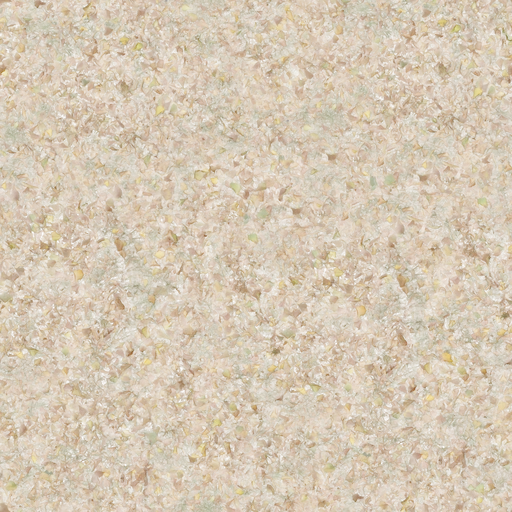
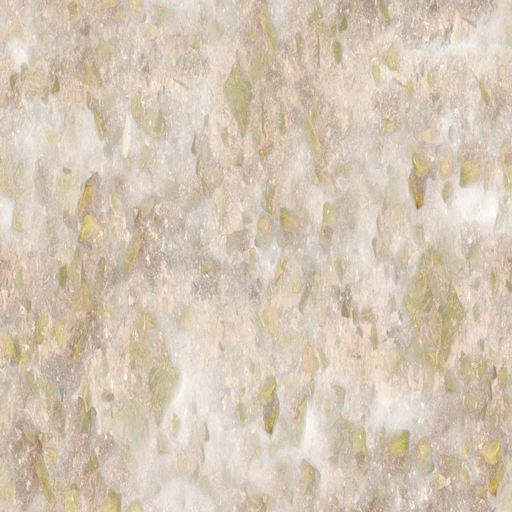
Avance: la hierba densa no crece sobre la tierra ni la hojarasca; el detalle del suelo llega más lejos; hojarasca con hojas (Ground078) y tierra más gris
Claude-Session: https://claude.ai/code/session_01JMEPuoU9iVWUB8s41oz7Gi

diff --git a/src/mapa/suelo.js b/src/mapa/suelo.js
@@ -18,7 +18,7 @@ import { materialTex } from '../mundo/estilos.js';
 const SIN_HUECO = new THREE.Vector4(1e9, 1e9, -1e9, -1e9);
 export const CAPAS_SUELO = ['hierba', 'tierra', 'roca', 'hojarasca'];
 // metros que ocupa cada textura en el suelo (una vez entera)
-export const ESCALA_SUELO = { hierba: 2.6, tierra: 2.2, roca: 3.5, hojarasca: 1.8 };
+export const ESCALA_SUELO = { hierba: 2.6, tierra: 2.2, roca: 3.5, hojarasca: 2.0 };
 
 // lo que comparten los materiales de cerca: las texturas y cuánto relieve
 const capas = {
@@ -78,14 +78,14 @@ vec4 bCapas; vec3 pwCapas;
     // (cada una con su color en distinta medida: la tierra y la roca casi solo claros y oscuros; la hojarasca, con el suyo)
     vec3 L = vec3(0.299, 0.587, 0.114);
     vec3 dH = cH.rgb / uMedias[0], dT = cT.rgb / uMedias[1], dR = cR.rgb / uMedias[2], dF = cF.rgb / uMedias[3];
-    dH = mix(vec3(dot(dH, L)), dH, 0.5); dT = mix(vec3(dot(dT, L)), dT, 0.2); dR = mix(vec3(dot(dR, L)), dR, 0.3); dF = mix(vec3(dot(dF, L)), dF, 0.7);
+    dH = mix(vec3(dot(dH, L)), dH, 0.5); dT = mix(vec3(dot(dT, L)), dT, 0.1); dR = mix(vec3(dot(dR, L)), dR, 0.3); dF = mix(vec3(dot(dF, L)), dF, 0.85);
     vec3 d = dH * b.x + dT * b.y + dR * b.z + dF * b.w;
     // a lo lejos, el detalle se va (la misma textura muchas veces seguidas hace rayas y aguas); y 0,6: lo que oscurecía
     // la textura «suelo» de antes, con la que están hechos los colores de los vértices
     // y también donde se ve muy de canto: cuando cada píxel de la pantalla abarca varios de la textura, su detalle hace
     // bandas (el aliasing de mirar una textura en ángulo rasante); ahí se va también
     float tpp = max(length(dFdx(p)), length(dFdy(p))) / uEscala.y * 512.0;
-    float lejosD = max(smoothstep(14.0, 55.0, length(vViewPosition)), smoothstep(9.0, 26.0, tpp));
+    float lejosD = max(smoothstep(35.0, 130.0, length(vViewPosition)), smoothstep(9.0, 26.0, tpp));
     // (lo de lejos se queda con la variación grande de la hierba, que no hace rayas)
     vec3 grande = mix(vec3(1.0), cH2.rgb / uMedias[0], 0.45 * b.x);
     diffuseColor.rgb *= 0.6 * mix(clamp(d, 0.0, 2.2), grande, lejosD);

diff --git a/src/mundo/hierba_densa.js b/src/mundo/hierba_densa.js
@@ -108,6 +108,15 @@ export function crearHierbaDensa({ mundoJ, raiz }) {
     return _c;
   }
 
+  // el peso de la hierba del suelo en un punto (0–1), entre los cuatro puntos de su rejilla; null si el trozo no lo trae
+  function pesoHierbaEn(v, xm, zm) {
+    const at = v.malla.geometry.attributes.mezcla; if (!at) return null;
+    const s = v.suelo, P = at.array, n = s.n;
+    const ga = Math.min(n - 1.001, Math.max(0, (xm - s.x0) / s.paso)), gb = Math.min(n - 1.001, Math.max(0, (zm - s.z0) / s.paso));
+    const a = Math.floor(ga), b = Math.floor(gb), fa = ga - a, fb = gb - b;
+    const p = P[(b * n + a) * 4], q = P[(b * n + a + 1) * 4], r = P[((b + 1) * n + a) * 4], u = P[((b + 1) * n + a + 1) * 4];
+    return (p + (q - p) * fa) * (1 - fb) + (r + (u - r) * fa) * fb;
+  }
   // hace la celda (ci, cj); false si su terreno aún no está (se vuelve a intentar)
   // banda: 0, cerca del jugador (más matas, más pequeñas); 1, más allá (menos matas y más anchas: tapan lo mismo)
   function hacer(ci, cj, banda = 0) {
@@ -124,7 +133,11 @@ export function crearHierbaDensa({ mundoJ, raiz }) {
       const v = trozoEn(xm, zm) || v0;
       const y = terreno.alturaEn(xm, zm);
       if (y === null || y < 0.6) continue;                       // (ni en el agua ni en la orilla)
-      const c = colorEn(v, xm, zm), h = cuantaHierba(c[0], c[1], c[2]);
+      // cuánta hierba hay ahí: por el color (verde: hierba) y, si el trozo lo trae, también por el peso de la hierba
+      // del suelo (src/mundo/color_suelo.js, pesos): sobre la tierra, la roca o la hojarasca no se pone (se teñía de
+      // pardo y parecía un campo arado)
+      const c = colorEn(v, xm, zm), w = pesoHierbaEn(v, xm, zm), hc = cuantaHierba(c[0], c[1], c[2]);
+      const h = w === null ? hc : Math.min(hc, Math.max(0, (w - 0.3) / 0.45));
       if (h <= corte) continue;                                  // (donde el suelo deja de ser hierba, cada vez menos matas)
       const x = xm - O.x, z = zm - O.z;
       if (ocupado && ocupado(x, z)) continue;

diff --git a/src/mundo/color_suelo.js b/src/mundo/color_suelo.js
@@ -60,7 +60,7 @@ export const lin = (c) => Math.pow(Math.max(0, c), 2.2);
 // El color del suelo de cerca (el de la vista «Como en el juego»), en lineal y ya con el sombreado de las vaguadas:
 //   st: el sitio (paisaje.sitio) o null en el agua; y: altura (m); s: pendiente de la forma (vecinos a 3 m); s1: la de
 //   aquí mismo (1 m); lap: concavidad (vecinos a 2 m, m/m²); xm, ym: el punto en el mundo (m)
-const TIERRA = [0.52, 0.42, 0.3], HOJARASCA = [0.42, 0.37, 0.25];   // (12 nov: la tierra, algo más parda: se leía como paja)
+const TIERRA = [0.49, 0.42, 0.33], HOJARASCA = [0.36, 0.32, 0.23];   // (12 nov: la tierra, algo más parda: se leía como paja)
 // (la prueba quita el lecho a propósito para comprobar que falla)
 const window_sinLecho = () => typeof globalThis !== 'undefined' && !!globalThis.__sinLecho;
 const suave = (a, b, x) => { const t = Math.min(1, Math.max(0, (x - a) / (b - a))); return t * t * (3 - 2 * t); };

diff --git a/docs/recursos/suelo/cc0-v1/PROCEDENCIA.md b/docs/recursos/suelo/cc0-v1/PROCEDENCIA.md
@@ -2,7 +2,7 @@
 
 - De [ambientCG](https://ambientcg.com), con licencia **CC0 1.0** (dominio público): se pueden usar, cambiar y
   repartir sin pedir permiso ni citar.
-  - `hierba`: Ground037 · `tierra`: Ground106 · `roca`: Rock028 · `hojarasca`: ScatteredLeaves009
+  - `hierba`: Ground037 · `tierra`: Ground106 · `roca`: Rock028 · `hojarasca`: Ground078
 - Bajadas en 1K el 12 nov de 2026 con `herramientas/texturas/bajar.py` (por GitHub Actions) y preparadas con
   `herramientas/texturas/preparar_suelo.py`: a 512 px, en WebP, con la altura en el canal alfa; `<capa>_relieve.webp` es
   su mapa de normales (GL); `medias.json`, el color medio de cada una en lineal.
